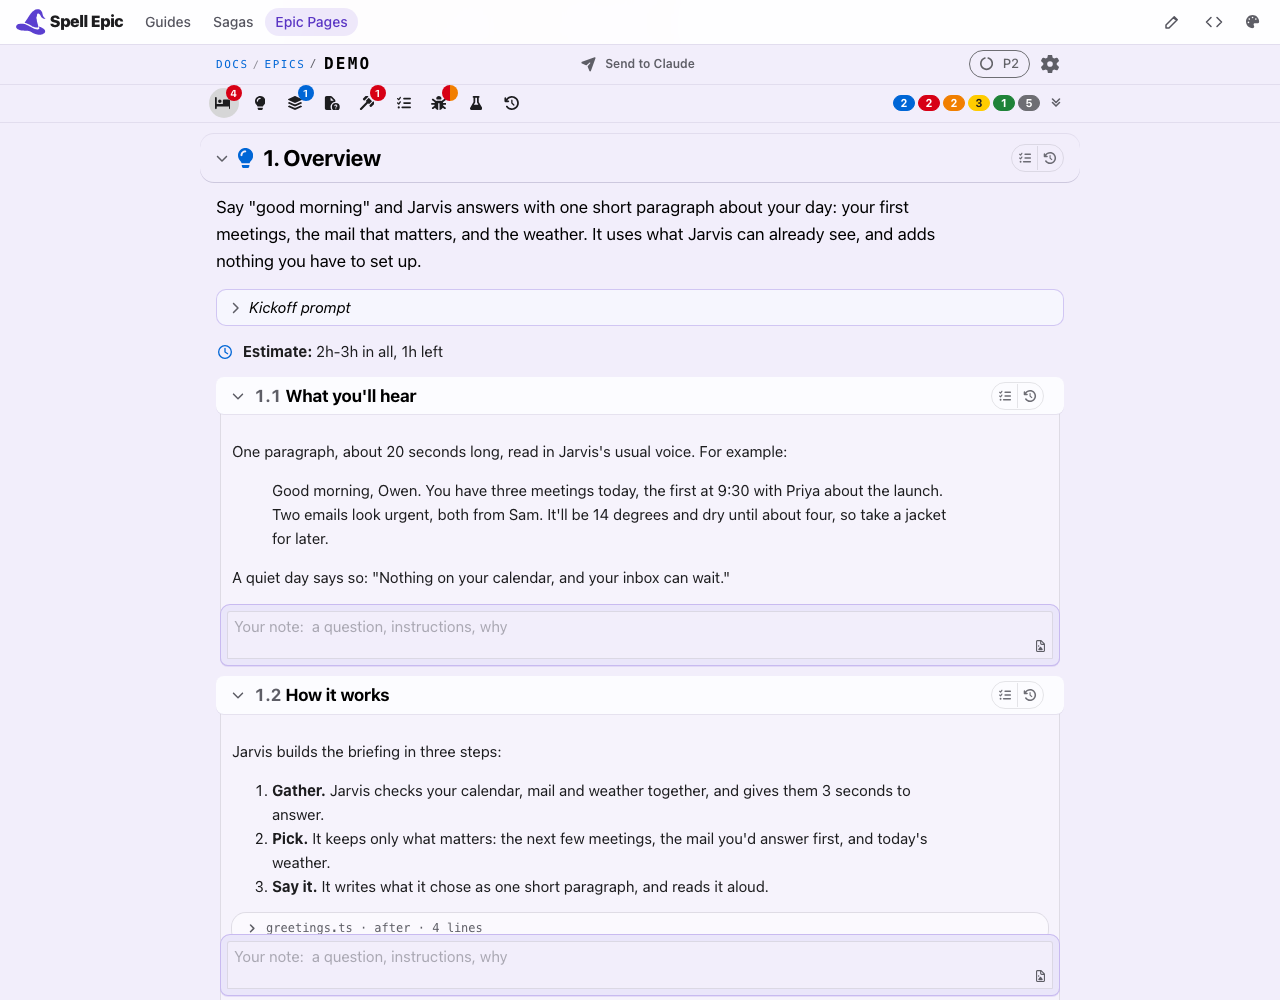
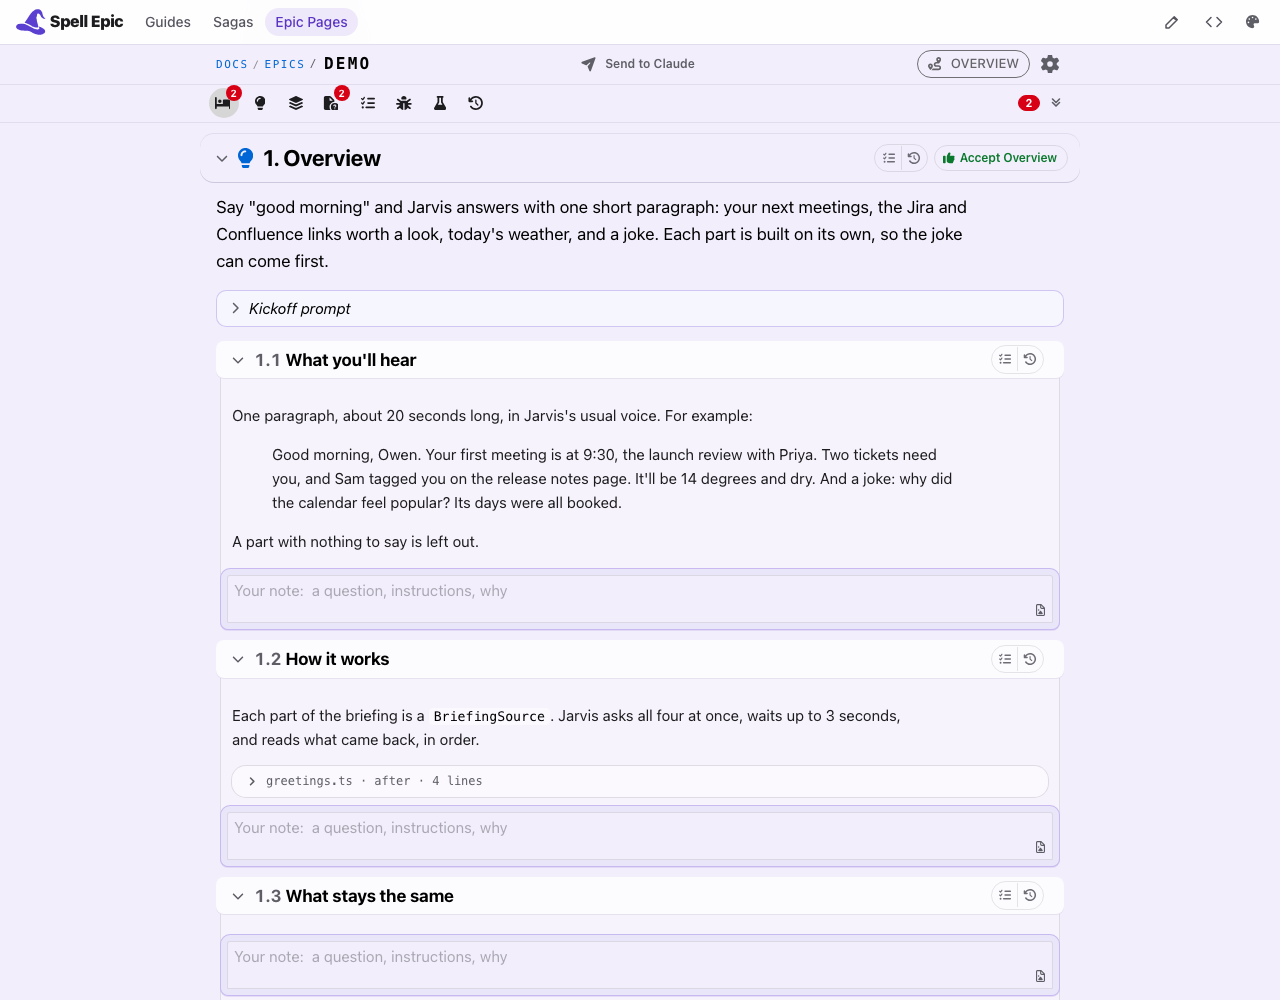
auto: epic epic-engine
Turn-end: data
Session: 5d2c6ba9-b533-440c-ab4b-e8d045dfd04a

diff --git a/epics/epic-engine/staged-demo/06-phase1-done.md b/epics/epic-engine/staged-demo/06-phase1-done.md
@@ -1,6 +1,6 @@
-# 06 · Phase 1 done
+# 06 · The picked phase done
 
-After Owen answers the two questions and presses Send:  phase 1 finishes, with the things found along the way.
+After Owen answers the two questions and presses Send:  the phase he picked (A Joke) finishes, with the things found along the way.  The other three phases stay to do.
 Before running this:  6 working lines, a pause after each (about 15 seconds:  "building").
 
 Each item shows in its own colour:
@@ -9,29 +9,30 @@ Each item shows in its own colour:
 - I1 red:  an open issue
 - I2 orange:  fixed, waiting for your review
 - I3 light orange:  your own request, done, until you look
-- T1 yellow:  a todo;  T2 grey:  a limit to know about;  T3 blue:  under way in phase 2
+- T1 yellow:  a todo;  T2 grey:  a limit to know about;  T3 blue:  under way, for Upcoming Meetings
 - M1:  a manual test, for you to try by hand
 
 ## Commands
 
 ```sh
-epic add demo#J "Meetings shorter than 15 minutes are left out of the briefing" --calm --details '<p>Quick check-ins crowd out the meetings that matter.  Anything under 15 minutes is skipped, unless you organised it.</p>'
-epic add demo#J "Mail from your manager is always mentioned, even when you rarely write back" --options "*Always mention it | Treat it like any other mail" --details '<p>You seldom reply to your manager by email, so the usual rule would skip them.  It felt wrong to leave them out, but you might disagree.</p>'
-epic add demo#I "Meeting times are read in the wrong time zone when you travel" --details '<p>The calendar gives times in the time zone you set at home.  On a trip, "9:30" can be an hour off.</p>'
-epic add demo#I "Two all-day events were read out as one" --calm --details '<p>"Sam away" and "Office closed" both fell on Friday, and the briefing joined them into one line.</p>'
-epic update demo#I2 fixed "Each all-day event now gets its own short line.  Test added for two on one day."
-epic add demo#I "The greeting should use my nickname" --requested --details '<p>Your words:  <q>Call me Oz in the morning, not Owen.</q></p>'
+epic add demo#J "Jokes about work are left out on Mondays" --calm --details '<p>A joke about meetings lands badly when your week starts with six of them.  On Mondays, Jarvis picks from the other jokes.</p>'
+epic add demo#J "The joke comes last, after the weather" --options "*Last, to end on a smile | First, to wake you up" --details '<p>Ending on the joke felt right, but some people want it first, while they are still in bed.  You might disagree.</p>'
+epic add demo#I "Puns with homophones sound wrong in Jarvis's voice" --details '<p>"I knead you" is read out as "I need you", so the joke is lost.  These puns need a different voice setting, or leaving out.</p>'
+epic add demo#I "The same joke came up twice in one week" --calm --details '<p>Restarting Jarvis forgot which jokes it had told.</p>'
+epic update demo#I2 fixed "Told jokes are now saved to disk, so a restart remembers them.  Test added."
+epic add demo#I "No jokes about cats, please" --requested --details '<p>Your words:  <q>My cat is sensitive.  No cat jokes.</q></p>'
 epic close demo#I3
-epic add demo#T "Let people choose which calendars count" --details '<p>A shared family calendar can fill the briefing with other people'"'"'s plans.  A setting could leave it out.</p>'
-epic add demo#T "Only the 50 newest unread emails are checked" --limit --details '<p>Enough for a normal morning.  After a long holiday, older mail is not looked at.</p>'
-epic add demo#M "Hear the briefing on your own laptop" --step '1. In Terminal: <pre><code>cd ~/www/jarvis
-yarn dev</code></pre> 2. Wait for "Jarvis is listening". 3. Say "good morning, Jarvis".' --should 'Within 3 seconds Jarvis reads one paragraph:  your first meeting, any mail that matters, and the weather.'
-epic phase demo#P1 done --no-open --done '<ul><li><code>Briefing.forToday()</code> gathers your meetings, the mail that matters and the forecast, all at once, in under 3 seconds.</li><li>A slow service is left out, never waited on:  the weather says "no forecast this morning" (Q4).</li><li>Meetings cancelled overnight get one short line (Q3).</li><li>Three calls made along the way, two issues found, one fixed, and your nickname used (I3).</li><li>Checked:  12 new tests, all passing;  one manual test for you (M1).</li></ul>'
-epic phase demo#P2 active --no-open
-epic add demo#T "Make the paragraph sound less like a list" --start "Meetings, then mail, then weather sounds robotic. Join them the way a person would."
-epic inbox status demo "Building P2"
+epic add demo#T "Let people add their own jokes" --details '<p>A family in-joke beats anything on the list.  A short text file could add them.</p>'
+epic add demo#T "Only 60 jokes:  after two months they come round again" --limit --details '<p>Enough for now.  A longer list, or a joke service, can come later.</p>'
+epic add demo#M "Hear the joke on your own laptop" --step '1. In Terminal: <pre><code>cd ~/www/jarvis
+yarn dev</code></pre> 2. Wait for "Jarvis is listening". 3. Say "good morning, Jarvis".' --should 'Jarvis says good morning, then tells one short joke.  Saying good morning again tells no second joke today.'
+epic phase "demo#${PICK:-p-a-joke}" done --no-open --done '<ul><li>One short, clean joke ends every briefing, picked from a list of 60.</li><li>For example:  "Why did the calendar feel popular?  Its days were all booked."</li><li>Puns and wordplay only (Q3);  no reply if you don'"'"'t laugh (Q4).</li><li>No repeats within 30 days, even after a restart (I2).</li><li>No cat jokes (I3).</li><li>Checked:  9 new tests, all passing;  one manual test for you (M1).</li></ul>'
+epic phase demo#p-upcoming-meetings active --no-open
+epic add demo#T "Read meeting times in the time zone you're in today" --start "On a trip, 9:30 at home is not 9:30 where you are. Use the time zone you're in."
+epic phase demo#p-upcoming-meetings todo --no-open
+epic inbox status demo "A Joke done"
 ```
 
 ## Say
 
-Phase 1 is done, and phase 2 is under way.
+**A Joke** is done.  The other three phases are still to do.

diff --git a/epics/epic-engine/staged-demo/04-phases.md b/epics/epic-engine/staged-demo/04-phases.md
@@ -1,29 +1,41 @@
-# 04 · Two phases
+# 04 · Four phases
 
-After Owen's Accept Overview:  the page moves to its Phases stage, and two phases go on, each with its plan.
+After Owen's Accept Overview:  the page moves to its Phases stage, and four phases go on, one per part, each with its plan.
 Before running this:  4 working lines, a pause after each (about 10 seconds).
 
 ## Commands
 
 ```sh
-epic add-phase demo "Gather The Day" --estimate "1-2h" \
-  --symptom "<p>Saying good morning gets a greeting, and nothing else.</p>" \
-  --changes "<p>A new briefing step collects today's meetings, the mail that matters and the forecast.</p><p>It keeps only the top few of each.</p>" \
-  --goal "<ul><li>One call, <code>Briefing.forToday()</code>, returns today's picks in under 3 seconds.</li><li>A slow or broken service is left out, never waited on.</li><li>Tested with a pretend calendar, inbox and forecast.</li></ul>" \
-  --plan "<ol><li>Ask the calendar, mail and weather at the same time, with a 3 second limit.</li><li>Keep the next three meetings, the mail you'd answer first, and today's forecast.</li><li>Tests for a busy day, a quiet day and a service that doesn't answer.</li></ol>"
-epic add-phase demo "Speak It Well" --estimate "1h" \
-  --symptom "<p>Even with the facts gathered, Jarvis would read them out as a list.</p>" \
-  --changes "<p>The picks become one short paragraph that sounds like a person.</p><p>The good morning handler speaks it.</p>" \
-  --goal "<ul><li>One paragraph, about 20 seconds long, in Jarvis's usual voice.</li><li>A quiet day gets a short, friendly line.</li><li>Heard out loud on the laptop before it's called done.</li></ul>" \
-  --plan "<ol><li>Write the paragraph from the picks:  meetings first, then mail, then weather.</li><li>Call it from the good morning handler.</li><li>A manual test:  say good morning and listen.</li></ol>"
+epic add-phase demo "Upcoming Meetings" --estimate "2h" \
+  --symptom "<p>The briefing can't tell you what's next on your calendar.</p>" \
+  --changes "<p>The meetings part reads your calendar, and names your next two meetings:  when, what, and who with.</p>" \
+  --goal "<ul><li>Your next two meetings today, in one sentence.</li><li>No meetings left:  the part says nothing.</li><li>Tested with a pretend calendar.</li></ul>" \
+  --plan "<ol><li>Ask the calendar for the rest of today.</li><li>Keep the next two meetings, and skip the ones you declined.</li><li>Tests for a busy day and an empty one.</li></ol>"
+epic add-phase demo "Jira and Confluence Links" --estimate "3h" \
+  --symptom "<p>Tickets and pages that need you are easy to miss first thing.</p>" \
+  --changes "<p>The links part finds the tickets assigned to you and the pages you were tagged on, and says how many there are.</p><p>The links themselves go to your phone, so you can open them later.</p>" \
+  --goal "<ul><li>One sentence:  how many tickets and pages, and the most important one by name.</li><li>Links sent to your phone, never read aloud.</li></ul>" \
+  --plan "<ol><li>Ask Jira for your open tickets, and Confluence for pages that tag you since yesterday.</li><li>Name the most urgent one;  count the rest.</li><li>Send the links to your phone.</li></ol>"
+epic add-phase demo "Today's Weather" --estimate "1h" \
+  --symptom "<p>You find out it's raining when you're already outside.</p>" \
+  --changes "<p>The weather part says today's high and whether to bring a coat.</p>" \
+  --goal "<ul><li>One sentence, for where you are today.</li><li>A slow weather service is left out, never waited on.</li></ul>" \
+  --plan "<ol><li>Ask for today's forecast, with a 3 second limit.</li><li>Say the high, and rain if it's likely.</li><li>Tests for sun, rain and no answer.</li></ol>"
+epic add-phase demo "A Joke" --estimate "1h" \
+  --symptom "<p>Mornings are serious enough.  The briefing should end with a smile.</p>" \
+  --changes "<p>The joke part picks one short, clean joke a day, and never the same one twice in a month.</p>" \
+  --goal "<ul><li>One joke at the end of every briefing, under 10 seconds out loud.</li><li>No repeats within 30 days.</li><li>Works on its own, before the other parts are built.</li></ul>" \
+  --plan "<ol><li>A list of 60 short jokes, checked to be clean and kind.</li><li>Pick today's from the ones not told in 30 days, and remember it.</li><li>Call the briefing from the good morning handler, with the joke as its only part for now.</li></ol>"
 epic open demo --review
 ```
 
 ## Say
 
-Two phases are up, each with its plan:
+Four phases are up, one per part, each with its plan:
 
-1. **Gather The Day:**  collect what matters, quickly.
-2. **Speak It Well:**  say it as one natural paragraph.
+1. **Upcoming Meetings:**  your next two meetings.
+2. **Jira and Confluence Links:**  the tickets and pages that need you.
+3. **Today's Weather:**  the high, and whether to bring a coat.
+4. **A Joke:**  one short joke to end on.
 
-Press **Accept Phases** when they look right, and I'll start building.
+Each part works on its own, so you can pick which one I build first.  Press **Looks good** (the thumbs up) on that phase, then **Accept Phases**.

diff --git a/epics/epic-engine/staged-demo/03-overview.md b/epics/epic-engine/staged-demo/03-overview.md
@@ -21,29 +21,24 @@ Pick an answer to each question, then press **Accept Overview** when it looks ri
 The summary:
 
 ```html
-<epic-summary>Say "good morning" and Jarvis answers with one short paragraph about your day:  your first meetings, the mail that matters, and the weather.  It uses what Jarvis can already see, and adds nothing you have to set up.</epic-summary>
+<epic-summary>Say "good morning" and Jarvis answers with one short paragraph:  your next meetings, the Jira and Confluence links worth a look, today's weather, and a joke.  Each part is built on its own, so the joke can come first.</epic-summary>
 ```
 
 The parts:
 
 ```html
 <epic-section id="o1" kind="overview-part" title="What you'll hear">
-  <p>One paragraph, about 20 seconds long, read in Jarvis's usual voice.  For example:</p>
-  <blockquote><p>Good morning, Owen.  You have three meetings today, the first at 9:30 with Priya about the launch.  Two emails look urgent, both from Sam.  It'll be 14 degrees and dry until about four, so take a jacket for later.</p></blockquote>
-  <p>A quiet day says so:  "Nothing on your calendar, and your inbox can wait."</p>
+  <p>One paragraph, about 20 seconds long, in Jarvis's usual voice.  For example:</p>
+  <blockquote><p>Good morning, Owen.  Your first meeting is at 9:30, the launch review with Priya.  Two tickets need you, and Sam tagged you on the release notes page.  It'll be 14 degrees and dry.  And a joke:  why did the calendar feel popular?  Its days were all booked.</p></blockquote>
+  <p>A part with nothing to say is left out.</p>
 </epic-section>
 ```
 
 ```html
 <epic-section id="o2" kind="overview-part" title="How it works">
-  <p>Jarvis builds the briefing in three steps:</p>
-  <ol>
-    <li><b>Gather.</b>  Jarvis checks your calendar, mail and weather together, and gives them 3 seconds to answer.</li>
-    <li><b>Pick.</b>  It keeps only what matters:  the next few meetings, the mail you'd answer first, and today's weather.</li>
-    <li><b>Say it.</b>  It writes what it chose as one short paragraph, and reads it aloud.</li>
-  </ol>
+  <p>Each part of the briefing is a <code>BriefingSource</code>.  Jarvis asks all four at once, waits up to 3 seconds, and reads what came back, in order.</p>
   <epic-code title="greetings.ts · after · 4 lines" language="ts"><pre>if (/good morning/i.test(phrase)) {
-  const briefing = await Briefing.forToday(ctx)
+  const briefing = await Briefing.forToday(ctx, [meetings, links, weather, joke])
   await ctx.speak(briefing.paragraph)
 }</pre></epic-code>
 </epic-section>
@@ -53,8 +48,7 @@ The parts:
 <epic-section id="o3" kind="overview-part" title="What stays the same">
   <ul>
     <li>The wake phrase and every other skill work as they do today.</li>
-    <li>Jarvis doesn't save your briefings.  It makes a new one each morning.</li>
-    <li>No new accounts or settings to fill in.</li>
+    <li>A part that isn't built yet says nothing.  The briefing still works.</li>
   </ul>
 </epic-section>
 ```

diff --git a/epics/epic-engine/staged-demo/05-midstream-questions.md b/epics/epic-engine/staged-demo/05-midstream-questions.md
@@ -1,21 +1,21 @@
 # 05 · Questions while building
 
-After Owen's Accept Phases:  phase 1 starts, and two questions come up while it's built.
+After Owen's Accept Phases:  the phase he picked starts (`$PICK`:  the one he pressed Looks good on;  none:  A Joke), and two questions come up while it's built.
 Before running this:  4 working lines, a pause after each (about 10 seconds).
 
 ## Commands
 
 ```sh
 epic demo seen
-epic phase demo#P1 active --no-open
-epic inbox status demo "Building P1"
-epic add demo#Q "Should the briefing mention meetings cancelled overnight?" --options "*Yes, in one short line | No, only what's still on" --details '<p>A meeting that vanished overnight is easy to miss.  Saying so takes one sentence:  "Your 10 o'"'"'clock with Sam was cancelled."</p>'
-epic add demo#Q "What should Jarvis do when the weather service is slow?" --options "*Leave the weather out, and say so | Wait up to 5 seconds | Use yesterday's forecast" --details '<p>The weather service sometimes takes 10 seconds to answer.  We recommend leaving the weather out and saying so, rather than making you wait.  The cost:  some mornings you won'"'"'t hear the forecast.</p>'
+epic phase "demo#${PICK:-p-a-joke}" active --no-open
+epic inbox status demo "Building A Joke"
+epic add demo#Q "What kind of jokes should Jarvis tell?" --options "*Puns and wordplay | Short one-liners | Facts that sound like jokes" --details '<p>Jokes heard before coffee need to be short.  Puns land in one sentence:  "I used to hate facial hair, but then it grew on me."</p>'
+epic add demo#Q "What happens when you don't laugh?" --options "*Nothing:  Jarvis moves on | Jarvis says \"Tough crowd\" | Jarvis explains the joke" --details '<p>Jarvis can'"'"'t really tell if you laughed.  We recommend moving on.  The cost:  no chance for a comeback.</p>'
 epic open demo --review
 ```
 
 ## Say
 
-Phase 1 is under way.
+**A Joke** is under way, as you picked.
 
-Two questions came up while building:  cancelled meetings, and a slow weather service.  They're on the page.  Answer them and press Send, and I'll finish the phase.
+Two questions came up while building:  what kind of jokes, and what happens when you don't laugh.  They're on the page.  Answer them and press Send, and I'll finish the phase.

diff --git a/epics/epic-engine/staged-demo/00-paste.md b/epics/epic-engine/staged-demo/00-paste.md
@@ -6,26 +6,33 @@ It's a feature ask for Jarvis, with the code it starts from.
 ## Paste
 
 ````text
-Jarvis should give me a morning briefing:  one short spoken paragraph that pulls together today's calendar, anything urgent in my inbox, and the weather.  Read it out the first time I say "good morning".
+Jarvis should give me a morning briefing.  When I say "good morning", read me one short spoken paragraph:  my upcoming meetings, the Jira and Confluence links worth checking, today's weather, and a joke to start the day.
 
-Here's where the wake phrase is handled today, and what a skill already has to work with:
+Here's where the wake phrase is handled today, and the shape I have in mind.  Only the joke is real so far:  meetings, Jira / Confluence and weather are stubs.
 
 ```ts
 // jarvis/src/skills/greetings.ts
 export async function onWakePhrase(phrase: string, ctx: SkillContext) {
   if (/good morning/i.test(phrase)) {
     await ctx.speak(`Good morning, ${ctx.user.firstName}.`)
-    // TODO: tell me what my day looks like
+    // TODO: the briefing
   }
 }
 
-// jarvis/src/skills/SkillContext.ts
-export interface SkillContext {
-  user: { firstName: string; timeZone: string }
-  calendar: { eventsBetween(start: Date, end: Date): Promise<CalendarEvent[]> }
-  mail: { unread(limit?: number): Promise<MailSummary[]> }
-  weather: { forecast(day: Date): Promise<Forecast> }
-  speak(text: string): Promise<void>
+// jarvis/src/briefing/BriefingSource.ts
+/** One part of the morning briefing:  gathers what it needs, and says it in a sentence or two. */
+export interface BriefingSource {
+  title: string
+  /** what this part says, or nothing on a quiet morning */
+  sentence(ctx: SkillContext): Promise<string | undefined>
+}
+
+export const meetings: BriefingSource = { title: "Upcoming meetings", sentence: async () => undefined } // stub
+export const links: BriefingSource = { title: "Jira and Confluence", sentence: async () => undefined } // stub
+export const weather: BriefingSource = { title: "Today's weather", sentence: async () => undefined } // stub
+export const joke: BriefingSource = {
+  title: "A joke",
+  sentence: async () => "Why did the calendar feel popular?  Its days were all booked."
 }
 ```
 ````

diff --git a/epics/epic-engine/staged-demo/02-questions.md b/epics/epic-engine/staged-demo/02-questions.md
@@ -6,10 +6,10 @@ After it:  4 working lines, a pause after each (about 10 seconds), then step 03.
 ## Commands
 
 ```sh
-epic add demo#Q "When should Jarvis read the morning briefing?" --options "*The first time you say good morning each day | At a set time, like 7:30, even if you say nothing | Only when you ask what your day looks like" --details '<p>Jarvis could start talking by itself, or wait to be asked.</p><p>We recommend waiting for "good morning":  it fits what Jarvis already does.  Jarvis starting on its own could startle someone in a quiet room.</p>'
-epic add demo#Q "How much of your inbox should the briefing mention?" --options "*Only mail from people you often write back to | A count of every unread email | No mail for now" --details '<p>Reading every subject line out loud takes too long.  Most mornings, only a few emails matter.</p><p>We recommend mail from the people you often write back to:  a good guess at what matters.  The cost:  a rare urgent email from someone new is left out.</p>'
+epic add demo#Q "When should Jarvis read the morning briefing?" --options "*The first time you say good morning each day | Every time you say good morning | Only when you ask for your briefing" --details '<p>Jarvis could brief you each time you greet it, or only once a day.</p><p>We recommend once a day:  hearing the same briefing twice gets old fast.</p>'
+epic add demo#Q "Which Jira and Confluence links should the briefing mention?" --options "*Tickets assigned to you, and pages you were tagged on | Every ticket and page that changed since yesterday | Only tickets marked urgent" --details '<p>Reading out every change takes too long.  Most mornings, only a few links matter to you.</p><p>We recommend your own tickets, and pages where someone tagged you.  The cost:  a change you were not tagged on is left out.</p>'
 ```
 
 ## Say
 
-Two questions are on the page:  when Jarvis should speak, and how much mail it should mention.
+Two questions are on the page:  when Jarvis should speak, and which Jira and Confluence links it should mention.

diff --git a/epics/epic-engine/staged-demo/07-while-you-were-out.md b/epics/epic-engine/staged-demo/07-while-you-were-out.md
@@ -10,11 +10,12 @@ epic pages link "$CONTENT_FOLDER/epics/demo/demo.plan.html" --hash away --show
 
 ## Say
 
-**Phase 1 · Gather The Day** is done.  While you were out:
+**A Joke** is done.  While you were out:
 
-- Jarvis now gathers your meetings, the mail that matters and the weather in under 3 seconds.
-- I made three calls along the way.  One, about your manager's mail, needs your say:  it's red.
+- Every briefing now ends with one short joke, never the same one twice in a month.
+- I made two calls along the way.  One, about where the joke goes, needs your say:  it's red.
 - I found two issues and fixed one.  The fixed one is orange, waiting for your review.
-- There's one thing to try by hand:  hear the briefing on your own laptop.
+- No cat jokes, as you asked.
+- There's one thing to try by hand:  hear the joke on your own laptop.
 
-It's all in "0. While you were out", at the top of the page.  Phase 2, Speak It Well, is under way.
+It's all in "0. While you were out", at the top of the page.  Upcoming Meetings, Jira and Confluence Links and Today's Weather are still to do.

diff --git a/epics/epic-engine/staged-demo/01-analysis.md b/epics/epic-engine/staged-demo/01-analysis.md
@@ -14,8 +14,8 @@ epic open demo --review
 
 Here's what I make of it.
 
-- Jarvis already hears "good morning", and already has your calendar, mail and the weather.
-- What's missing is the part that picks what matters and says it as one natural paragraph.
+- Jarvis already hears "good morning".  The briefing has four parts:  meetings, Jira and Confluence links, the weather, and a joke.
+- Each part is its own `BriefingSource`, so each can be built, and tested, on its own.
 - Two things change the plan a lot, so I've put them on the page as questions.
 
 I've started an epic page for it:  it's open in the side bar.
